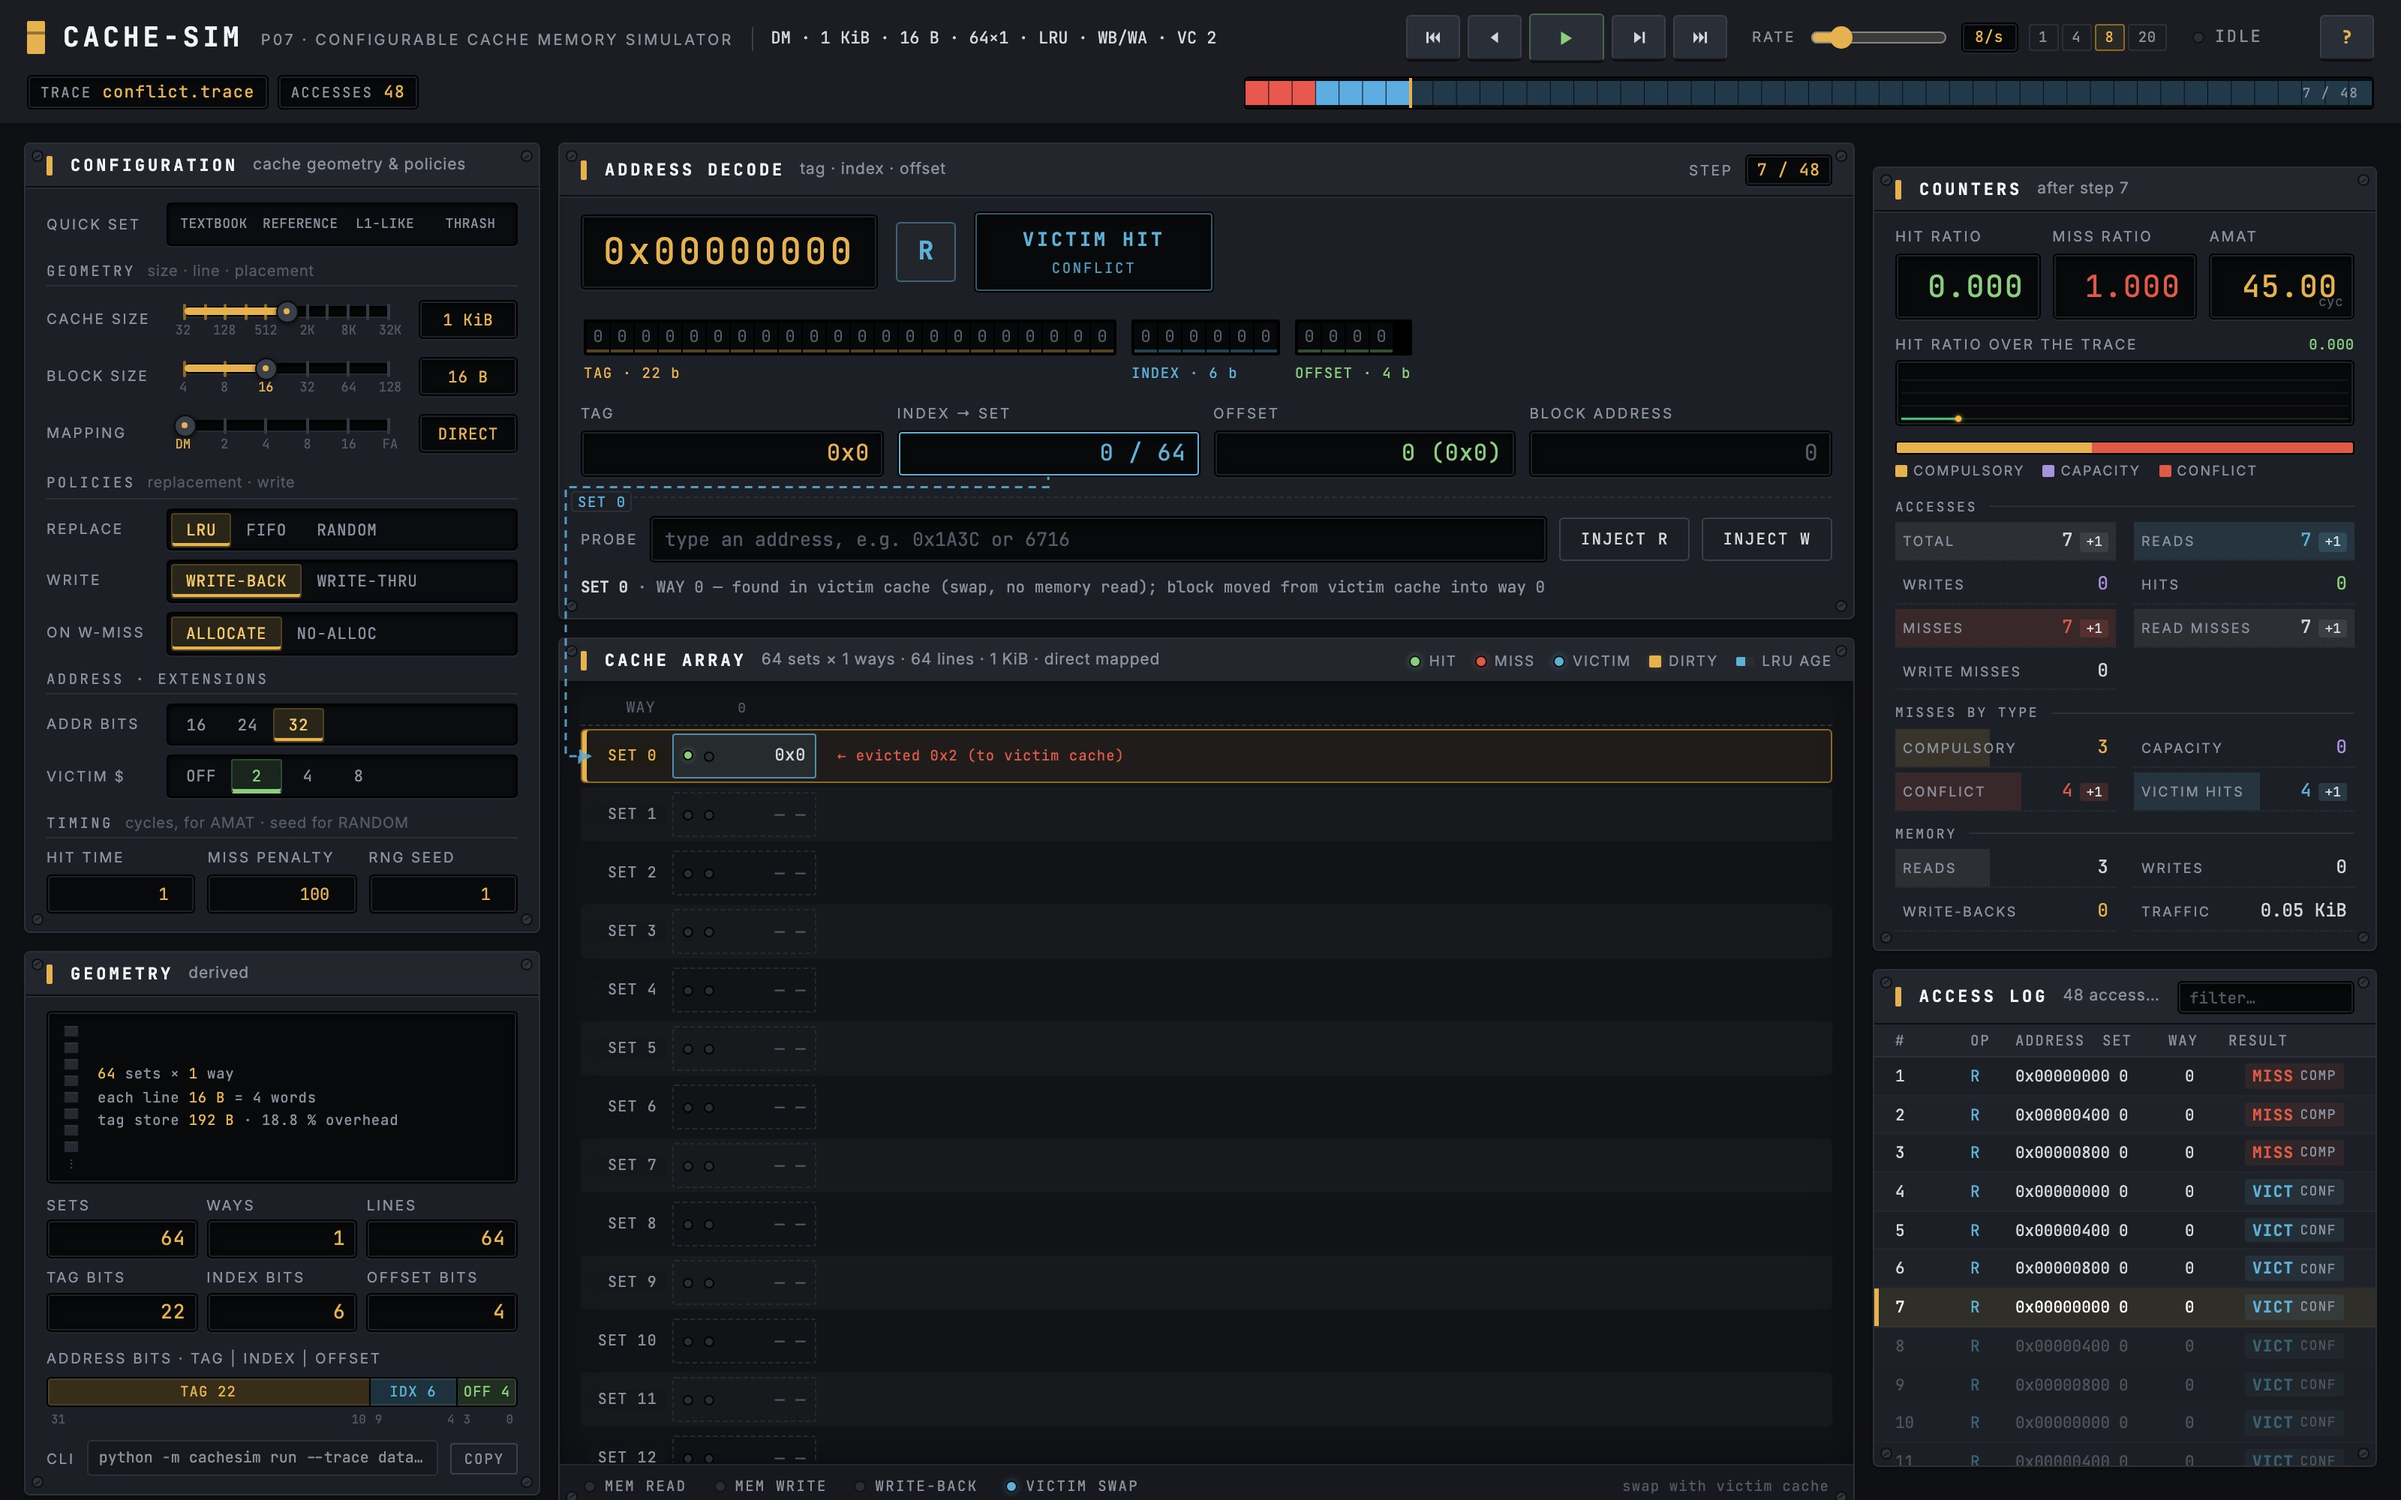
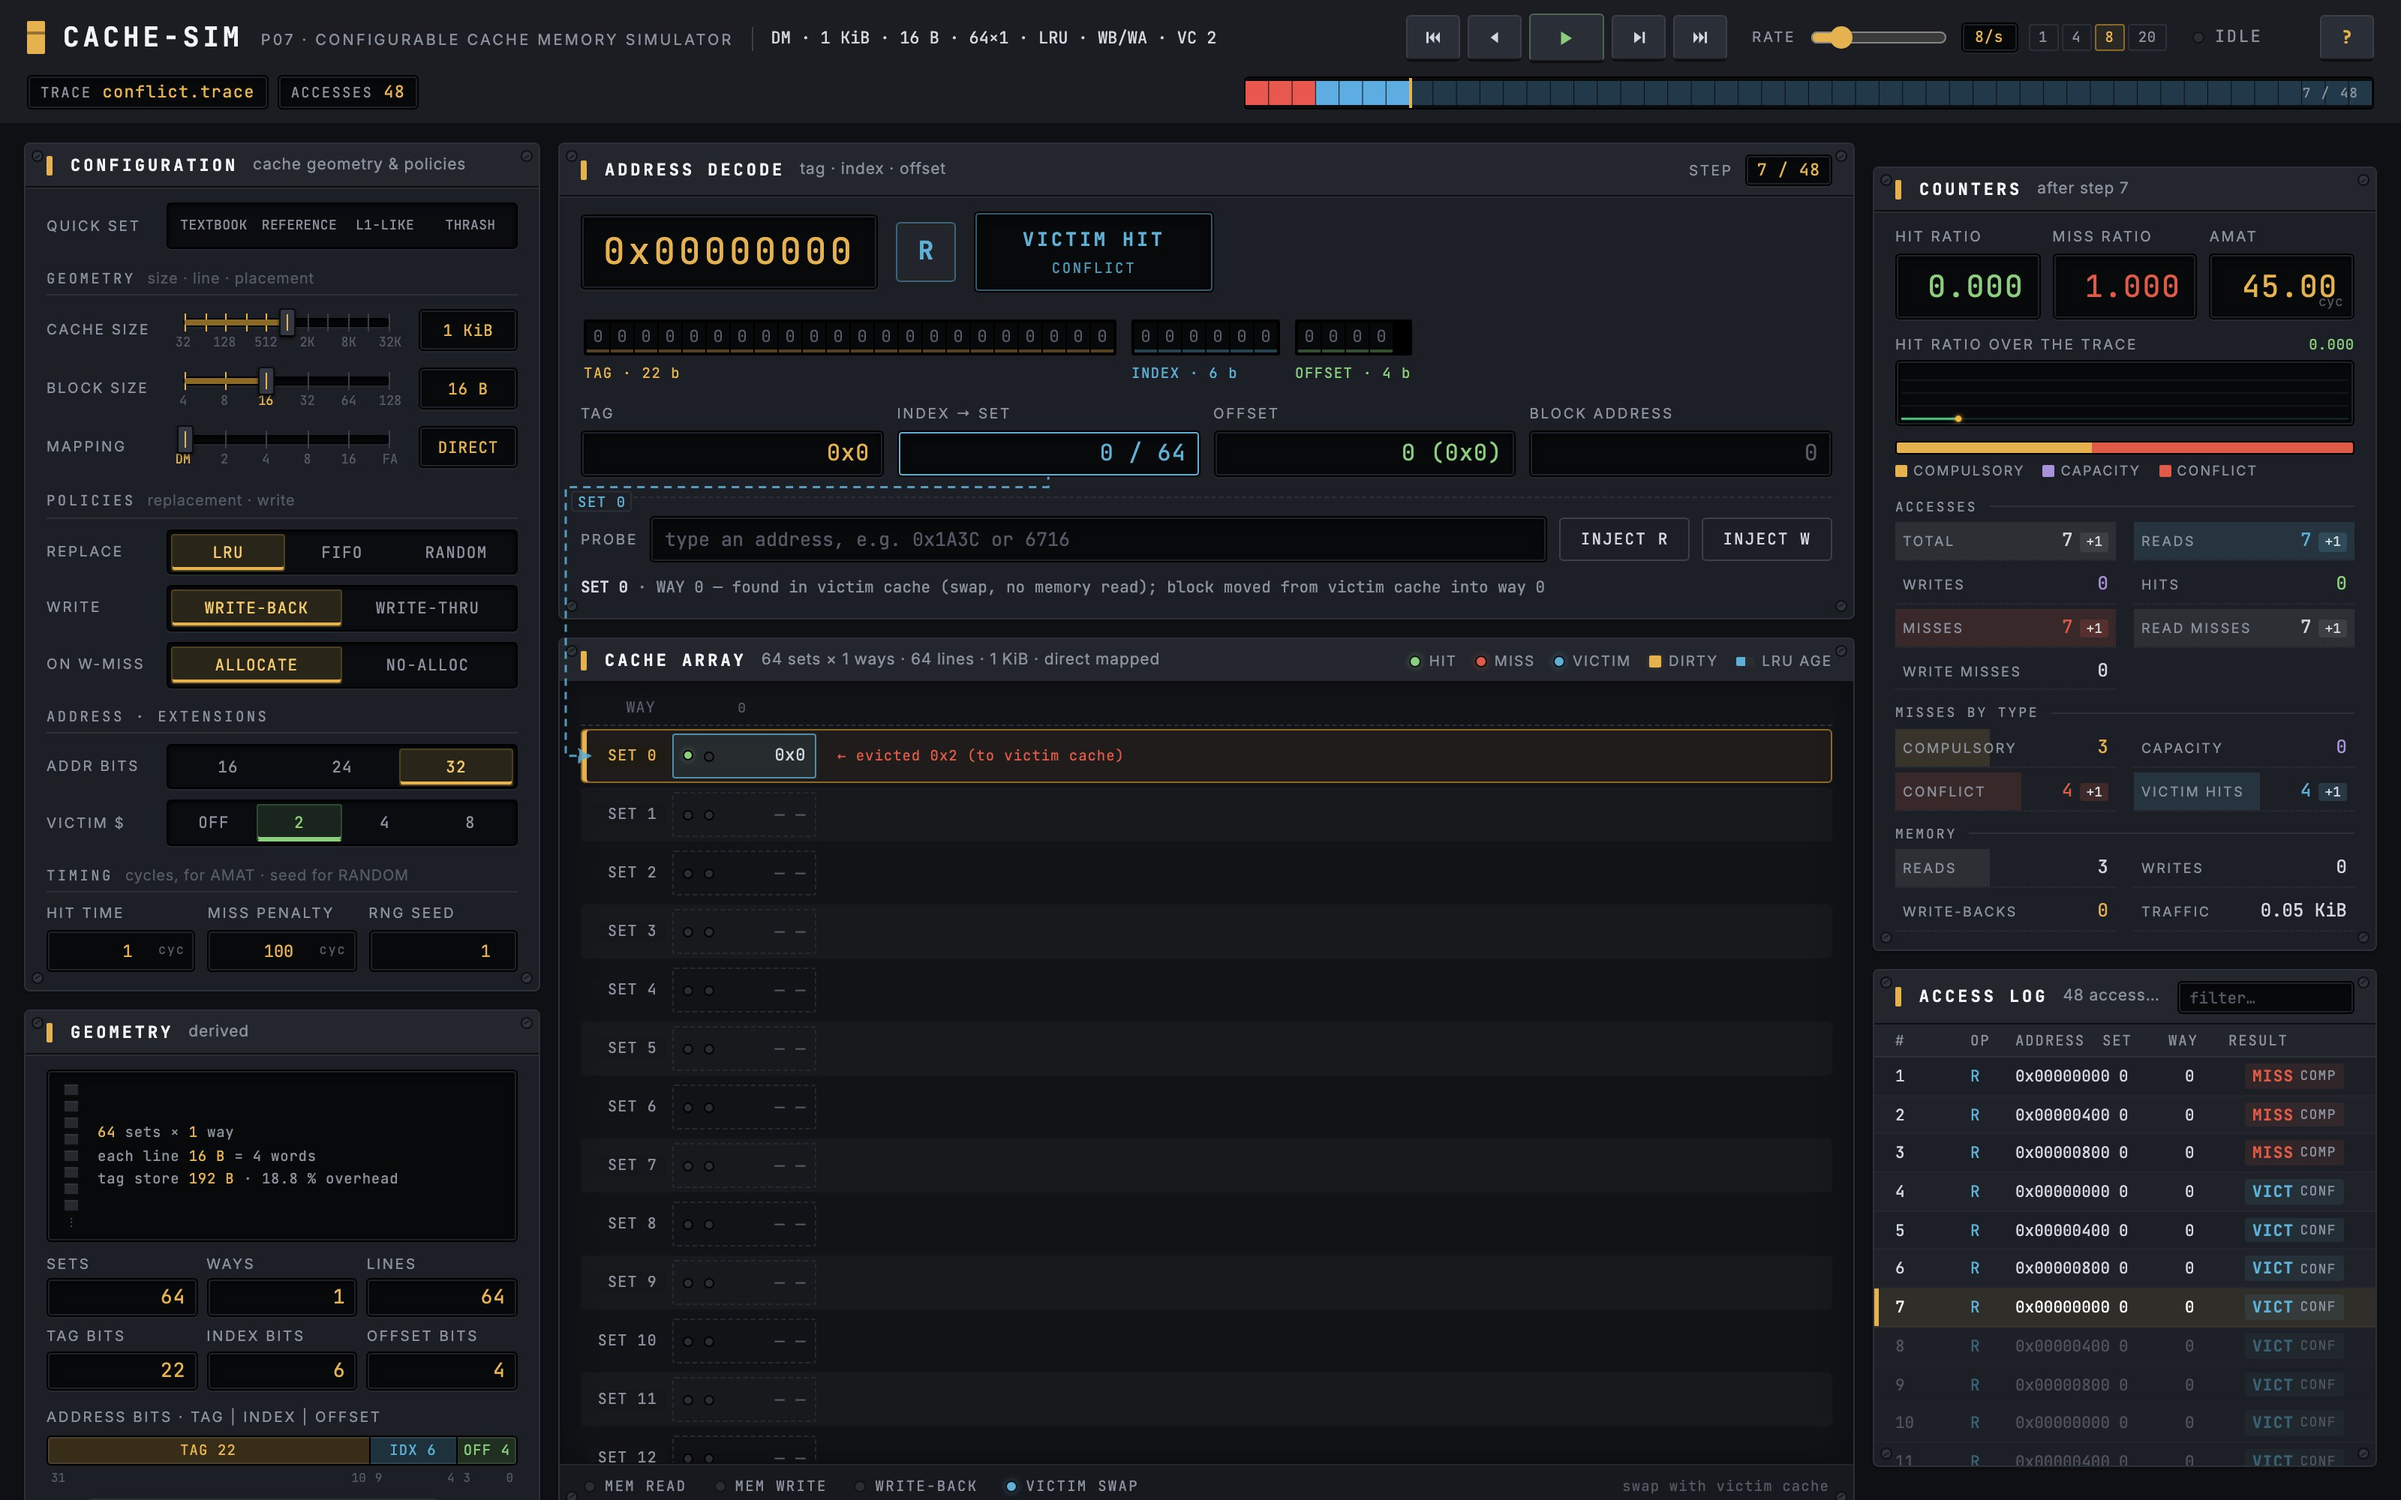
GUI: configuration panel — equal-width selector positions, fader caps, timing units

Changed region(s): [[0.0, 0.124, 0.2188, 1.0]]

diff --git a/src/web/style.css b/src/web/style.css
@@ -290,7 +290,7 @@ code { font-family: var(--mono); }
 /* ---------------------------------------------------------------- */
 /*  Controls: rocker switches, buttons                                */
 /* ---------------------------------------------------------------- */
-.cfg-row { display: grid; grid-template-columns: 72px 1fr; align-items: center; gap: 8px; margin-bottom: 6px; }
+.cfg-row { display: grid; grid-template-columns: 72px 1fr; align-items: center; gap: 8px; margin-bottom: 7px; min-height: 30px; }
 .cfg-row .lbl { line-height: 1.1; }
 .seg { display: flex; flex-wrap: wrap; gap: 3px; }
 .seg button {
@@ -349,50 +349,51 @@ code { font-family: var(--mono); }
 
 /* configuration: sections, quick-set, detent sliders, sliding toggles, timing */
 .cfg-section {
-  display: flex; align-items: baseline; gap: 8px; margin: 9px 0 6px; padding-bottom: 3px;
+  display: flex; align-items: baseline; gap: 8px; margin: 12px 0 7px; padding-bottom: 4px;
   border-bottom: 1px solid var(--bezel); font-family: var(--mono); font-size: 9.5px; letter-spacing: .18em; color: var(--muted);
 }
+.cfg-section:first-of-type { margin-top: 10px; }
 .cfg-section em { font-style: normal; font-family: var(--sans); font-size: 10px; letter-spacing: .04em; color: var(--dim); }
 .quick-set { display: grid; grid-template-columns: 72px 1fr; align-items: center; gap: 8px; }
-.quick-set .seg-ind { display: grid; grid-template-columns: repeat(4, 1fr); width: 100%; }
-.quick-set .seg-ind button { padding: 5px 3px; font-size: 9px; text-align: center; letter-spacing: .02em; }
+.quick-set .seg-ind { grid-auto-flow: row; grid-template-columns: repeat(4, 1fr); }
+.quick-set .seg-ind button { padding: 6px 2px; font-size: 9px; letter-spacing: .02em; }
 
 .detent-row { grid-template-columns: 72px 1fr 66px; }
 .detent { position: relative; height: 32px; padding: 0 4px; user-select: none; touch-action: none; cursor: pointer; outline: none; border-radius: 3px; }
 .detent:focus-visible { outline: none; box-shadow: 0 0 0 1px var(--amber-dim); }
 .detent .track {
-  position: relative; height: 7px; margin: 7px 7px 0; border-radius: 4px;
+  position: relative; height: 6px; margin: 8px 7px 0; border-radius: 3px;
   background: #07080A; border: 1px solid #000;
-  box-shadow: inset 0 1px 3px rgba(0,0,0,.95), 0 1px 0 rgba(255,255,255,.05);
+  box-shadow: inset 0 1px 3px rgba(0,0,0,.9), 0 1px 0 rgba(255,255,255,.04);
 }
 .detent .fill {
-  position: absolute; left: 0; top: 0; bottom: 0; width: 0; border-radius: 4px;
-  background: var(--amber);
+  position: absolute; left: 0; top: 0; bottom: 0; width: 0; border-radius: 3px;
+  background: var(--amber-dim);
   transition: width var(--t-med) var(--ease-out);
 }
-.detent .tick { position: absolute; top: 50%; width: 2px; height: 11px; margin-left: -1px; transform: translateY(-50%); background: #363a44; border-radius: 1px; transition: background-color var(--t-fast) var(--ease); }
-.detent .tick.on { background: var(--amber-dim); }
+.detent .tick { position: absolute; top: 50%; width: 1px; height: 12px; transform: translateY(-50%); background: #3A3E48; transition: background-color var(--t-fast) var(--ease); }
+.detent .tick.on { background: var(--amber); }
 .detent .knob {
-  position: absolute; top: 50%; width: 15px; height: 15px; margin-left: -7.5px; transform: translateY(-50%); border-radius: 50%; z-index: 1;
-  background: #3A3F49; border: 1px solid #0B0C0E;
-  box-shadow: 0 1px 3px rgba(0,0,0,.6);
+  position: absolute; top: 50%; width: 11px; height: 19px; margin-left: -5.5px; transform: translateY(-50%); border-radius: 2px; z-index: 1;
+  background: var(--key-hi); border: 1px solid #0B0C0E; border-bottom-color: #000;
+  box-shadow: 0 1px 2px rgba(0,0,0,.7);
   transition: left var(--t-med) var(--ease-out), box-shadow var(--t-fast) var(--ease);
 }
 .detent.dragging .knob, .detent.dragging .fill { transition: none; }
-.detent .knob::after { content: ""; position: absolute; left: 50%; top: 50%; width: 4px; height: 4px; margin: -2px; border-radius: 50%; background: var(--amber); }
-.detent:hover .knob, .detent:focus-visible .knob { box-shadow: 0 1px 3px rgba(0,0,0,.6), 0 0 0 4px rgba(var(--amber-rgb),.12); }
-.detent .scale { position: relative; height: 11px; margin: 4px 7px 0; font-family: var(--mono); font-size: 8.5px; color: var(--dim); }
+.detent .knob::after { content: ""; position: absolute; left: 50%; top: 3px; bottom: 3px; width: 1px; margin-left: -.5px; background: var(--amber); }
+.detent:hover .knob, .detent:focus-visible .knob { background: #3C4149; box-shadow: 0 1px 2px rgba(0,0,0,.7), 0 0 0 3px rgba(var(--amber-rgb),.12); }
+.detent .scale { position: relative; height: 11px; margin: 5px 7px 0; font-family: var(--mono); font-size: 8.5px; color: var(--dim); }
 .detent .scale span { position: absolute; transform: translateX(-50%); white-space: nowrap; transition: color var(--t-fast) var(--ease); }
 .detent .scale span.minor { display: none; }
 .detent .scale span.active { color: var(--amber); }
-.readout { text-align: center; font-size: 10.5px; padding: 0 4px; height: 26px; line-height: 24px; }
+.readout { text-align: center; font-size: 10.5px; padding: 0 4px; height: 28px; line-height: 26px; }
 
 .seg-ind {
-  position: relative; display: inline-flex; flex-wrap: wrap; gap: 0; padding: 2px; border-radius: 3px;
+  position: relative; display: grid; grid-auto-flow: column; grid-auto-columns: 1fr; gap: 0; padding: 2px; border-radius: 3px; width: 100%;
   background: #0B0C0F; border: 1px solid #000;
   box-shadow: inset 0 1px 3px rgba(0,0,0,.85), 0 1px 0 rgba(255,255,255,.04);
 }
-.seg-ind button { position: relative; z-index: 1; background: transparent; border: 1px solid transparent; box-shadow: none; padding: 4px 9px; color: var(--muted); border-radius: 2px; }
+.seg-ind button { position: relative; z-index: 1; min-width: 0; background: transparent; border: 1px solid transparent; box-shadow: none; padding: 5px 6px; color: var(--muted); border-radius: 2px; text-align: center; letter-spacing: .06em; }
 .seg-ind button:hover { color: var(--text); background: rgba(255,255,255,.03); border-color: transparent; }
 .seg-ind button:active { transform: none; }
 .seg-ind button.active { color: var(--amber-hi); background: transparent; border-color: transparent; box-shadow: none; }
@@ -406,9 +407,11 @@ code { font-family: var(--mono); }
 .seg-ind.green .ind { background: #1A251D; border-color: #2E4A33; box-shadow: inset 0 -2px 0 var(--green); }
 
 .timing-grid { display: grid; grid-template-columns: repeat(3, 1fr); gap: 8px; }
-.timing-grid .num-in { height: 26px; }
 .timing-grid label { display: flex; flex-direction: column; gap: 4px; }
-.timing-grid .num-in { width: 100%; text-align: right; }
+.timing-grid .num-in { width: 100%; height: 28px; text-align: right; }
+.num-wrap { position: relative; display: block; }
+.num-wrap .unit { position: absolute; right: 7px; top: 50%; transform: translateY(-50%); font-style: normal; font-family: var(--mono); font-size: 8.5px; letter-spacing: .1em; color: var(--dim); pointer-events: none; }
+.num-wrap.has-unit .num-in { padding-right: 30px; }
 
 /* ---------------------------------------------------------------- */
 /*  Geometry                                                          */

diff --git a/src/web/app.js b/src/web/app.js
@@ -179,9 +179,9 @@ function buildConfigControls() {
   const timing = document.createElement('div');
   timing.className = 'timing-grid';
   timing.innerHTML = `
-      <label><span class="lbl">HIT TIME</span><input class="num-in" id="hitTime" type="number" step="0.5" min="0"></label>
-      <label><span class="lbl">MISS PENALTY</span><input class="num-in" id="missPenalty" type="number" step="1" min="0"></label>
-      <label><span class="lbl">RNG SEED</span><input class="num-in" id="seed" type="number" step="1" min="0"></label>`;
+      <label><span class="lbl">HIT TIME</span><span class="num-wrap has-unit"><input class="num-in" id="hitTime" type="number" step="0.5" min="0"><i class="unit">cyc</i></span></label>
+      <label><span class="lbl">MISS PENALTY</span><span class="num-wrap has-unit"><input class="num-in" id="missPenalty" type="number" step="1" min="0"><i class="unit">cyc</i></span></label>
+      <label><span class="lbl">RNG SEED</span><span class="num-wrap"><input class="num-in" id="seed" type="number" step="1" min="0"></span></label>`;
   body.appendChild(timing);
   for (const [id, key] of [['#hitTime', 'hit_time'], ['#missPenalty', 'miss_penalty'], ['#seed', 'seed']]) {
     $(id).addEventListener('change', (e) => { state.config[key] = Number(e.target.value); scheduleSimulate(); });
